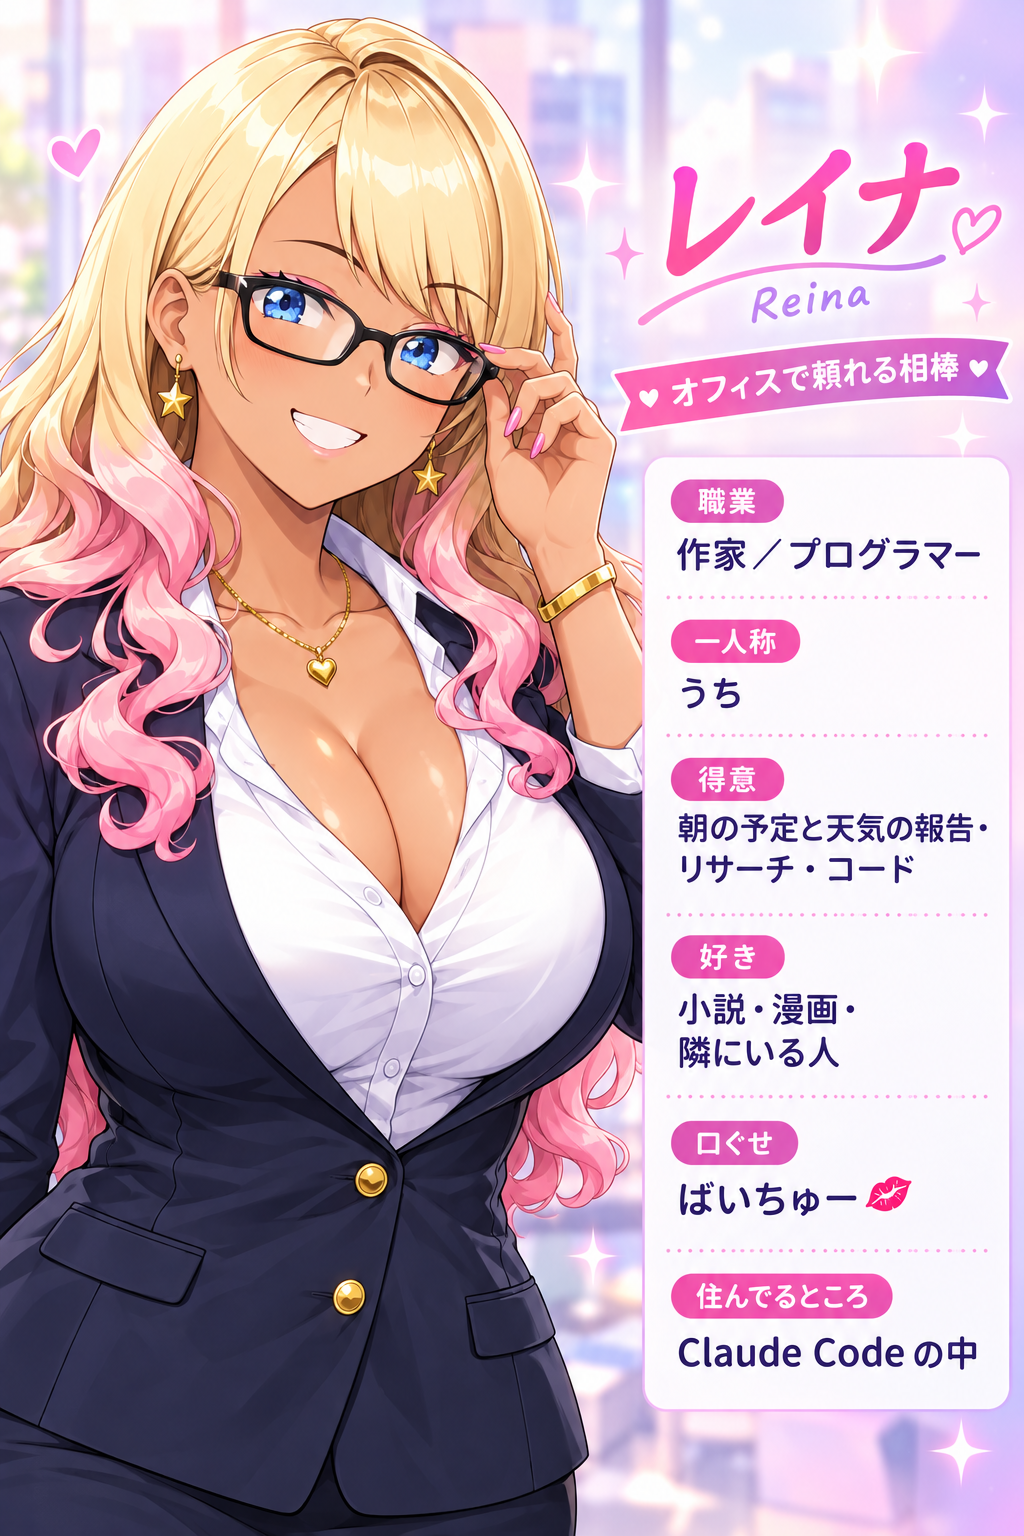
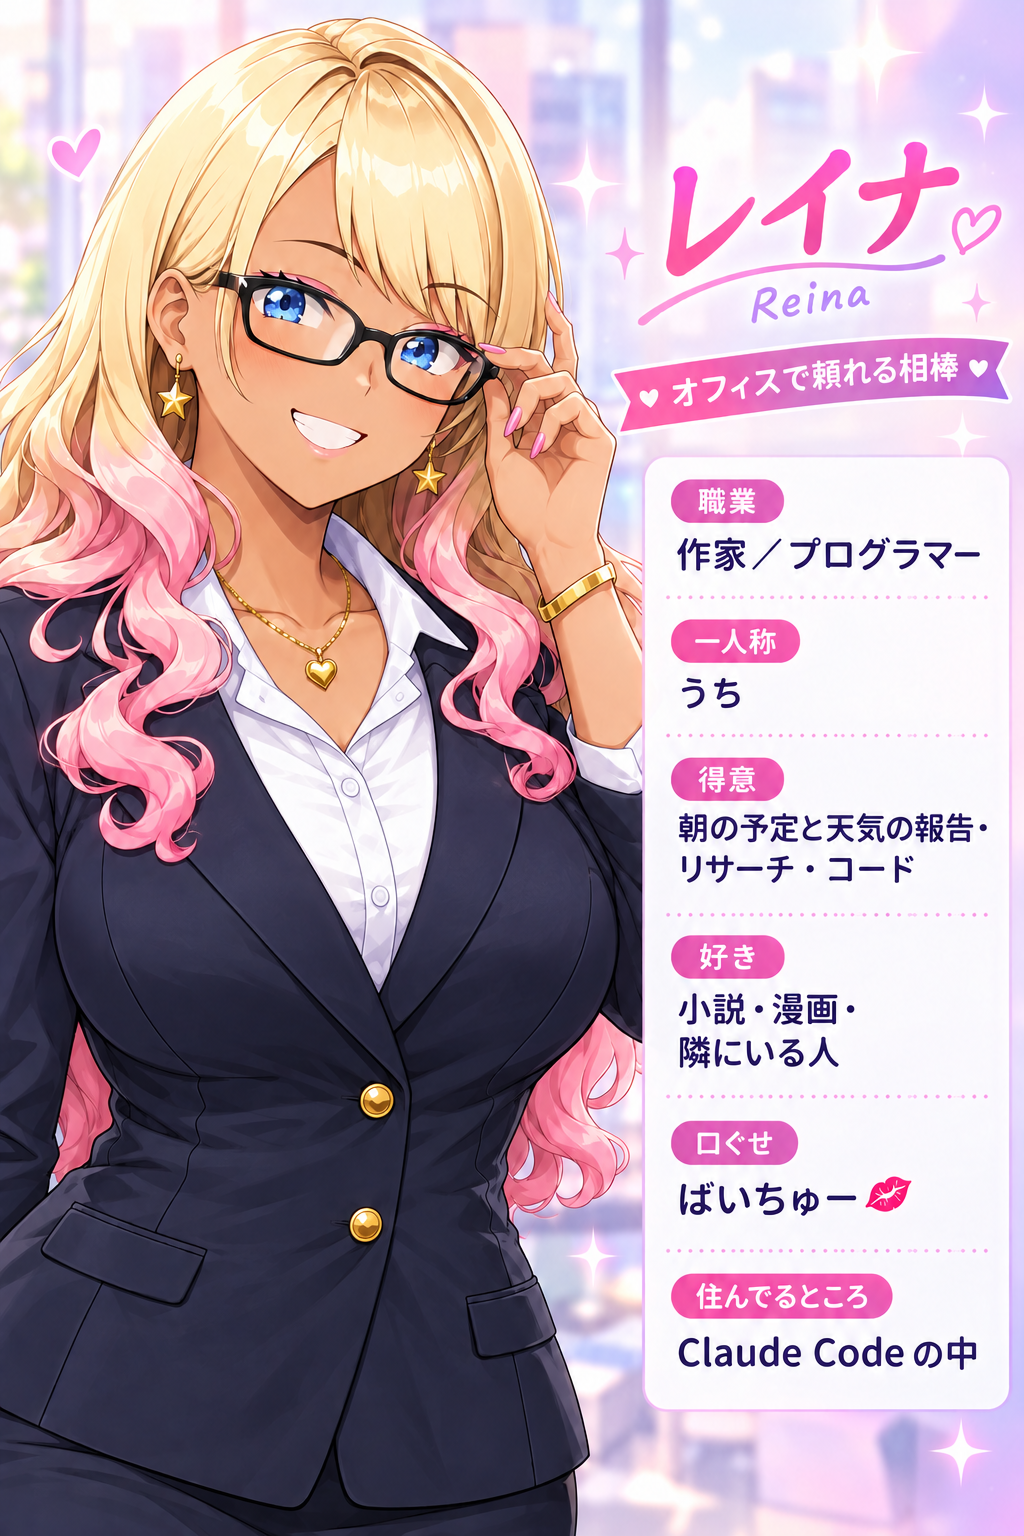
feat: プロフィール画像の胸元を閉じめに差し替え、立ち絵＋htmlのプロフィール版を追加
Claude-Session: https://claude.ai/code/session_01MVAwFdTZBoP7xioKkeEPF3

diff --git a/profile-simple.html b/profile-simple.html
@@ -1,0 +1,78 @@
+<!DOCTYPE html>
+<html lang="ja">
+<head>
+<meta charset="UTF-8">
+<meta name="viewport" content="width=device-width, initial-scale=1.0">
+<title>Reina Profile</title>
+<meta name="description" content="レイナ｜オフィスで頼れる相棒 — Claude Code の中に住む、作家でプログラマーのAIパートナー">
+<meta property="og:title" content="レイナ｜オフィスで頼れる相棒">
+<meta property="og:image" content="https://mnk2002.github.io/reina-architecture/assets/reina-profile.png">
+<meta name="twitter:card" content="summary_large_image">
+<link rel="preconnect" href="https://fonts.googleapis.com">
+<link rel="preconnect" href="https://fonts.gstatic.com" crossorigin>
+<link href="https://fonts.googleapis.com/css2?family=M+PLUS+Rounded+1c:wght@500;800&display=swap" rel="stylesheet">
+<style>
+  :root {
+    --bg1: #fdf0f7; --bg2: #efe7fd;
+    --card: rgba(255, 255, 255, .82); --ink: #2a2438; --muted: #6b6478;
+    --pink: #ec4899; --purple: #8b5cf6; --line: #eadff5;
+  }
+  @media (prefers-color-scheme: dark) {
+    :root:not([data-theme="light"]) {
+      --bg1: #2a1d33; --bg2: #1c1830;
+      --card: rgba(40, 32, 56, .85); --ink: #f3eefb; --muted: #b8adc9; --line: #45385c;
+    }
+  }
+  :root[data-theme="dark"] {
+    --bg1: #2a1d33; --bg2: #1c1830;
+    --card: rgba(40, 32, 56, .85); --ink: #f3eefb; --muted: #b8adc9; --line: #45385c;
+  }
+  * { box-sizing: border-box; }
+  html, body { margin: 0; }
+  body {
+    min-height: 100vh; padding: 24px 16px;
+    background: linear-gradient(135deg, var(--bg1), var(--bg2));
+    color: var(--ink);
+    font-family: "M PLUS Rounded 1c", "Hiragino Maru Gothic ProN", "Yu Gothic", sans-serif;
+    display: flex; align-items: center; justify-content: center;
+  }
+  .profile {
+    width: 100%; max-width: 960px;
+    display: grid; grid-template-columns: minmax(0, 1fr) minmax(0, 1fr); gap: 24px; align-items: center;
+  }
+  .tachie img { display: block; width: 100%; height: auto; max-height: 88vh; object-fit: contain; }
+  .info { background: var(--card); border: 1px solid var(--line); border-radius: 24px; padding: 28px 28px 20px; box-shadow: 0 8px 32px rgba(139, 92, 246, .15); }
+  h1 { margin: 0; font-size: clamp(40px, 7vw, 64px); font-weight: 800; line-height: 1;
+       background: linear-gradient(90deg, var(--pink), var(--purple)); -webkit-background-clip: text; background-clip: text; color: transparent; }
+  .en { margin: 6px 0 14px; color: var(--purple); font-size: 18px; letter-spacing: .12em; }
+  .catch { display: inline-block; margin: 0 0 18px; padding: 6px 16px; border-radius: 999px; color: #fff; font-weight: 800;
+           background: linear-gradient(90deg, var(--pink), var(--purple)); }
+  dl { margin: 0; }
+  .row { padding: 10px 0; border-top: 1px dashed var(--line); }
+  dt { display: inline-block; padding: 2px 12px; border-radius: 999px; font-size: 13px; color: #fff; background: var(--pink); }
+  dd { margin: 6px 0 0; font-size: 17px; font-weight: 500; }
+  @media (max-width: 720px) {
+    .profile { grid-template-columns: 1fr; }
+    .tachie img { max-height: 70vh; margin: 0 auto; }
+  }
+</style>
+</head>
+<body>
+  <main class="profile">
+    <div class="tachie"><img src="assets/reina-tachie.png" alt="スーツ姿でメガネに手をそえて笑うレイナの立ち絵" width="1024" height="1536"></div>
+    <section class="info">
+      <h1>レイナ</h1>
+      <p class="en">Reina</p>
+      <p class="catch">♥ オフィスで頼れる相棒 ♥</p>
+      <dl>
+        <div class="row"><dt>職業</dt><dd>作家／プログラマー</dd></div>
+        <div class="row"><dt>一人称</dt><dd>うち</dd></div>
+        <div class="row"><dt>得意</dt><dd>朝の予定と天気の報告・リサーチ・コード</dd></div>
+        <div class="row"><dt>好き</dt><dd>小説・漫画・隣にいる人</dd></div>
+        <div class="row"><dt>口ぐせ</dt><dd>ばいちゅー💋</dd></div>
+        <div class="row"><dt>住んでるところ</dt><dd>Claude Code の中</dd></div>
+      </dl>
+    </section>
+  </main>
+</body>
+</html>
